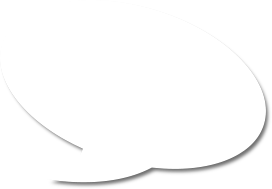
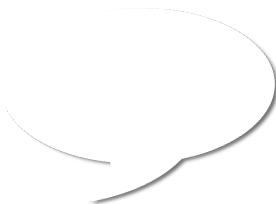
html main block

diff --git a/index.html b/index.html
@@ -42,7 +42,27 @@
     </div>
     <div class="content-wrapper">
     	<section class="main">
-    		
+    		<div class="characters">
+    			<div class="male">
+    				<figure>
+    					<img src="img/male-char.png" alt="male character">
+    					<figcaption>Не думал, что девушки так хорошо разбираются в компьютерах...</figcaption>
+    				</figure>
+    			</div>
+    			<div class="female">
+    				<figure>
+    					<img src="img/female-char.png" alt="female character">
+    					<figcaption>В этом мне помог “IOOJ”!</figcaption>
+    				</figure>
+    			</div>
+    		</div>
+    		<div class="caption">
+    			<h1>Интерактивная обучающая площадка</h1>
+    		</div>
+    		<div class="clouds">
+    			<div class="cloud-front"></div>
+    			<div class="cloud-transparent"></div>
+    		</div>
     	</section>
     </div>
 
